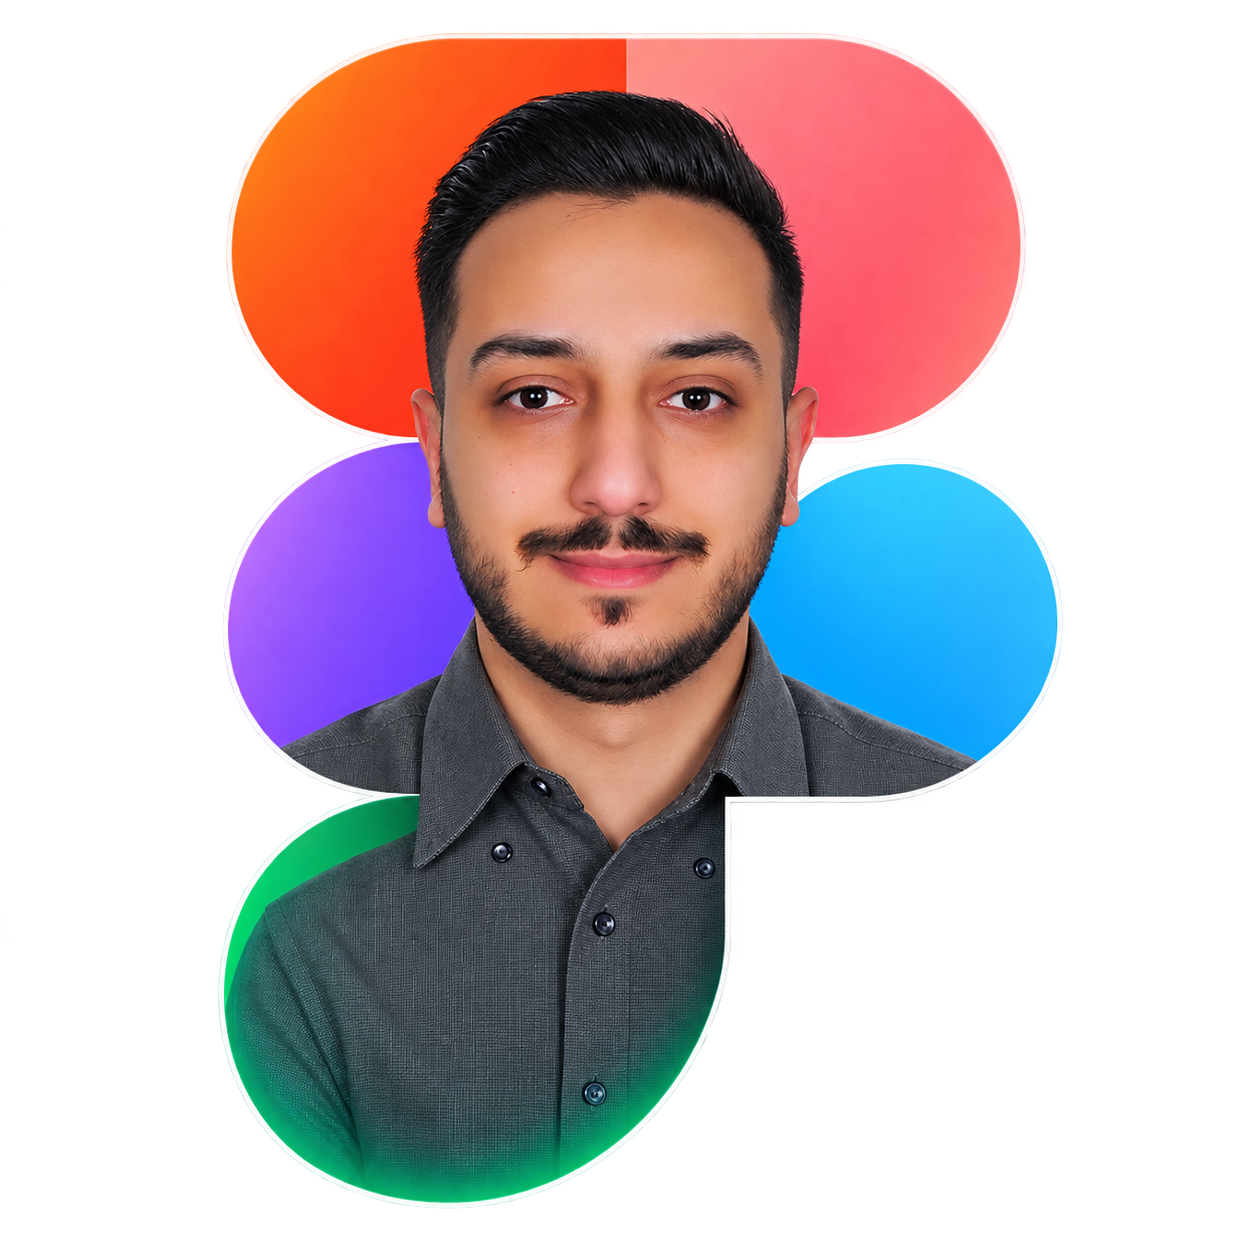
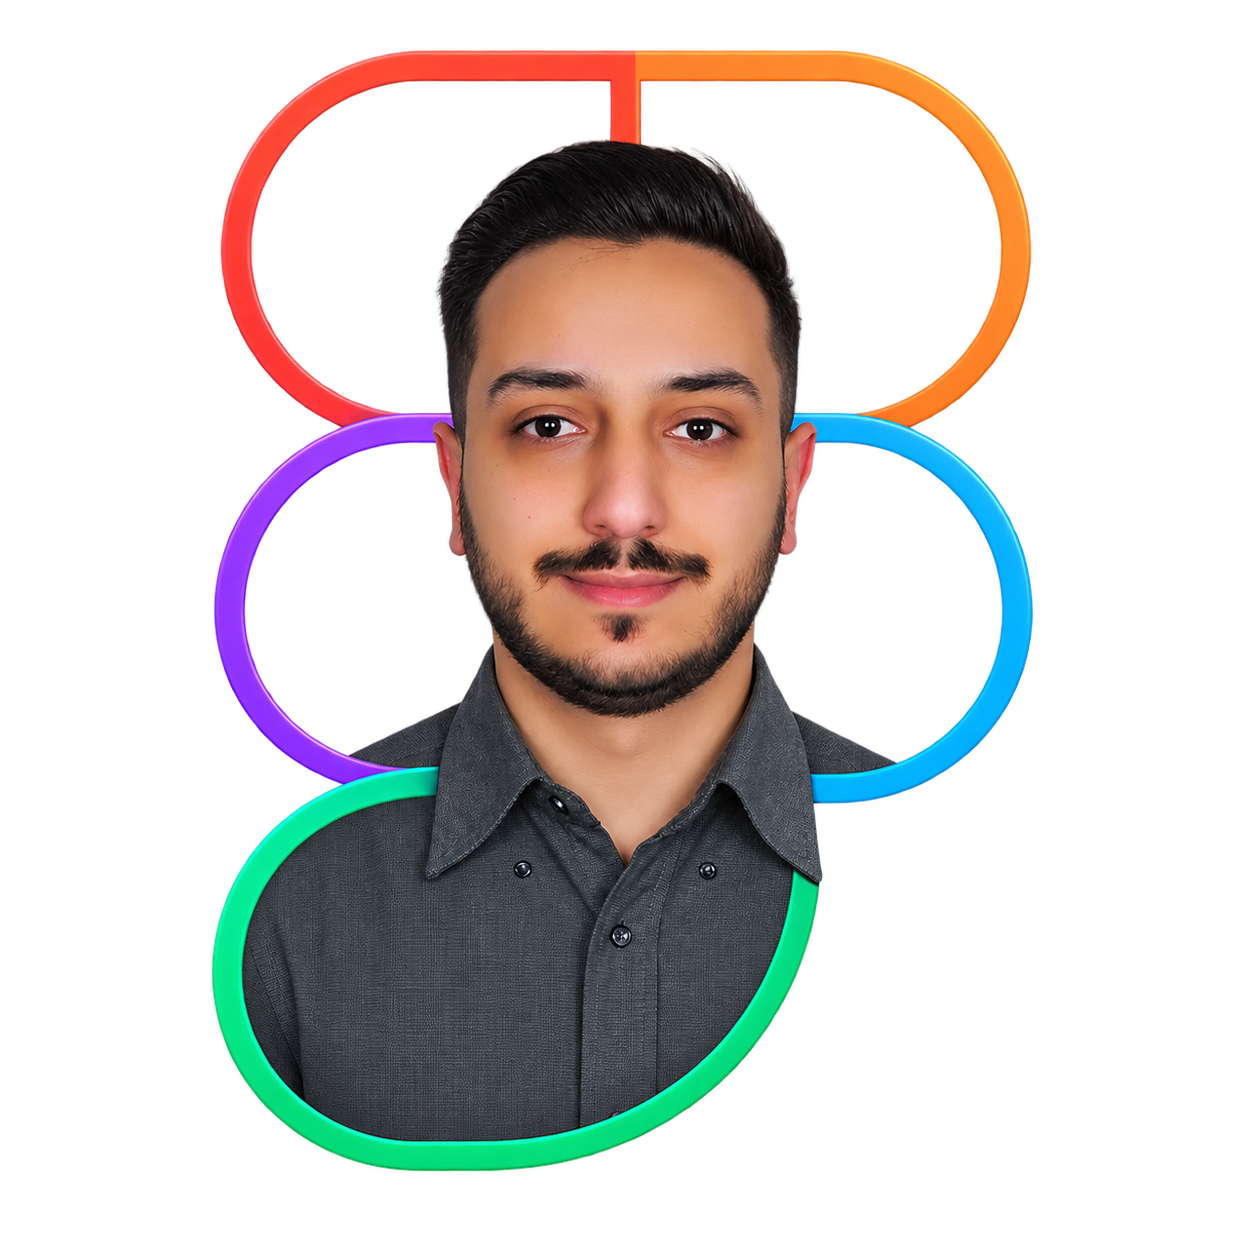
Refactor Band, Footer, and Hero components; update styles and improve layout

diff --git a/src/index.css b/src/index.css
@@ -14,13 +14,13 @@
 
 @layer base {
   :root {
-    --ground: 18 20 28;
-    --band: 22 25 34;
-    --ink: 238 240 246;
-    --muted: 154 163 184;
-    --faint: 107 116 136;
-    --rule: 42 47 61;
-    --accent: 88 166 255;
+    --ground: 3 7 18;
+    --band: 6 12 27;
+    --ink: 242 245 250;
+    --muted: 157 169 193;
+    --faint: 104 119 148;
+    --rule: 25 36 58;
+    --accent: 61 163 255;
 
     color-scheme: dark;
   }
@@ -32,6 +32,11 @@
 
   body {
     @apply bg-ground font-body text-ink antialiased;
+    background-color: rgb(var(--ground));
+    background-image:
+      radial-gradient(ellipse 55% 38% at 0% 0%, rgb(9 63 126 / 0.3), transparent 72%),
+      radial-gradient(ellipse 48% 34% at 100% 72%, rgb(6 43 91 / 0.28), transparent 74%);
+    background-attachment: fixed;
   }
 
   ::selection {
@@ -147,45 +152,48 @@
   .hero-visual {
     position: relative;
     display: grid;
-    gap: 1.25rem;
+    align-content: center;
+    gap: 1rem;
+    min-width: 0;
+  }
+
+  .hero-copy {
+    position: relative;
+    z-index: 1;
+  }
+
+  .hero-name {
+    color: rgb(var(--accent));
+    font-size: clamp(0.7rem, 1.2vw, 0.9rem);
+    letter-spacing: 0.2em;
+  }
+
+  .hero-title {
+    max-width: 12ch;
+    font-size: clamp(2.4rem, 4.6vw, 4.2rem);
+    letter-spacing: -0.045em;
+  }
+
+  .hero-title-location {
+    max-width: 13ch;
+  }
+
+  .hero-portrait-stage {
+    position: relative;
+    min-height: 18rem;
+    isolation: isolate;
   }
 
   .hero-portrait {
     position: relative;
-    min-height: 17rem;
-    overflow: hidden;
-    border: 1px solid rgb(255 255 255 / 0.12);
-    border-radius: 18px;
-    isolation: isolate;
-    background:
-      radial-gradient(circle at 18% 18%, rgb(255 104 63 / 0.3), transparent 31%),
-      radial-gradient(circle at 84% 48%, rgb(34 169 255 / 0.25), transparent 34%),
-      radial-gradient(circle at 48% 100%, rgb(25 194 129 / 0.2), transparent 38%),
-      linear-gradient(145deg, rgb(255 255 255 / 0.09), rgb(16 20 30 / 0.92));
-    box-shadow: 0 24px 60px -34px rgb(0 0 0 / 0.95);
-  }
-
-  .hero-portrait::before {
-    content: '';
-    position: absolute;
-    inset: 0;
-    z-index: -1;
-    opacity: 0.28;
-    background-image:
-      linear-gradient(rgb(255 255 255 / 0.12) 1px, transparent 1px),
-      linear-gradient(90deg, rgb(255 255 255 / 0.12) 1px, transparent 1px);
-    background-size: 2.2rem 2.2rem;
-    mask-image: linear-gradient(to bottom, black, transparent 82%);
-  }
-
-  .hero-portrait::after {
-    content: '';
-    position: absolute;
-    inset: -35%;
-    z-index: -1;
-    background: linear-gradient(115deg, transparent 35%, rgb(255 255 255 / 0.12), transparent 65%);
-    transform: translateX(-35%) rotate(8deg);
-    animation: portrait-light 12s ease-in-out infinite;
+    z-index: 1;
+    height: 100%;
+    min-height: 18rem;
+    overflow: visible;
+    border: 0;
+    border-radius: 0;
+    background: transparent;
+    box-shadow: none;
   }
 
   .hero-portrait img {
@@ -194,31 +202,91 @@
     z-index: 1;
     width: 100%;
     height: 100%;
-    max-height: 25rem;
+    max-height: 23rem;
     object-fit: contain;
     object-position: center bottom;
     filter: drop-shadow(0 1.5rem 1.5rem rgb(0 0 0 / 0.28));
   }
 
-  .hero-portrait-label {
+  .hero-ring {
     position: absolute;
-    z-index: 2;
-    right: 1rem;
-    bottom: 1rem;
-    padding: 0.45rem 0.65rem;
-    color: rgb(var(--ink));
-    background: rgb(var(--ground) / 0.72);
-    border: 1px solid rgb(255 255 255 / 0.14);
+    z-index: -1;
+    width: 11rem;
+    height: 5.5rem;
+    border: 3px solid transparent;
     border-radius: 999px;
-    font-family: theme('fontFamily.mono');
-    font-size: 0.55rem;
-    letter-spacing: 0.08em;
-    text-transform: uppercase;
+    transform: rotate(-8deg);
   }
 
-  @keyframes portrait-light {
-    0%, 100% { transform: translateX(-35%) rotate(8deg); }
-    50% { transform: translateX(35%) rotate(8deg); }
+  .hero-ring-one {
+    top: 1rem;
+    left: 50%;
+    border-top-color: #ff7627;
+    border-right-color: #ff4c62;
+    transform: translateX(-50%) rotate(-8deg);
+  }
+
+  .hero-ring-two {
+    top: 5.7rem;
+    left: 50%;
+    border-top-color: #db4dff;
+    border-right-color: #39a7ff;
+    transform: translateX(-50%) rotate(-8deg);
+  }
+
+  .hero-ring-three {
+    top: 10.4rem;
+    left: 50%;
+    width: 8rem;
+    border-top-color: #00f09a;
+    border-right-color: #00e5b1;
+    transform: translateX(-50%) rotate(-8deg);
+  }
+
+  .hero-signature {
+    justify-self: center;
+    padding: 0.65rem 1.1rem;
+    color: rgb(var(--muted));
+    border: 1px solid rgb(255 255 255 / 0.1);
+    border-radius: 999px;
+    letter-spacing: 0.08em;
+  }
+
+  .hero-stats {
+    display: grid;
+    grid-template-columns: repeat(4, 1fr);
+    gap: 0;
+    padding: 1rem 0.65rem;
+    border-radius: 10px;
+    background: rgb(10 15 27 / 0.48);
+  }
+
+  .hero-stat {
+    display: flex;
+    min-width: 0;
+    flex-direction: column;
+    gap: 0.35rem;
+    padding: 0 0.75rem;
+    border-right: 1px solid rgb(255 255 255 / 0.1);
+  }
+
+  .hero-stat:last-child {
+    border-right: 0;
+  }
+
+  .hero-stat strong {
+    color: rgb(var(--accent));
+    font-family: theme('fontFamily.display');
+    font-size: clamp(1.45rem, 2.5vw, 2.2rem);
+    line-height: 1;
+  }
+
+  .hero-stat span {
+    color: rgb(var(--muted));
+    font-family: theme('fontFamily.mono');
+    font-size: 0.52rem;
+    line-height: 1.5;
+    text-transform: uppercase;
   }
 
   .design-toolbar,
@@ -681,6 +749,42 @@
   }
 
   @media (max-width: 640px) {
+    .hero-portrait-stage {
+      min-height: 19rem;
+    }
+
+    .hero-portrait {
+      min-height: 19rem;
+    }
+
+    .hero-ring {
+      width: 10rem;
+      height: 5rem;
+    }
+
+    .hero-ring-two {
+      top: 5.8rem;
+    }
+
+    .hero-ring-three {
+      top: 10.6rem;
+      width: 6.8rem;
+    }
+
+    .hero-stats {
+      grid-template-columns: repeat(2, 1fr);
+      row-gap: 1rem;
+    }
+
+    .hero-stat:nth-child(2) {
+      border-right: 0;
+    }
+
+    .hero-stat:nth-child(-n + 2) {
+      padding-bottom: 0.85rem;
+      border-bottom: 1px solid rgb(255 255 255 / 0.1);
+    }
+
     .design-workspace {
       min-height: 27rem;
     }

diff --git a/src/components/Hero.tsx b/src/components/Hero.tsx
@@ -1,31 +1,13 @@
-import { disciplines, profile } from '../data/portfolio'
+import { disciplines, profile, stats } from '../data/portfolio'
 
 export default function Hero() {
   return (
     <section
       id="top"
-      className="relative flex min-h-[100svh] flex-col justify-center overflow-hidden border-b border-rule"
+      className="relative flex min-h-[100svh] flex-col justify-center overflow-hidden"
     >
-      {/* Ambient light for the glass to pick up — one hue, two intensities. */}
-      <div aria-hidden="true" className="pointer-events-none absolute inset-0">
-        <span
-          className="orb h-[560px] w-[560px] opacity-[0.34]"
-          style={{ background: 'rgb(var(--accent))', top: '-220px', left: '-160px' }}
-        />
-        <span
-          className="orb h-[440px] w-[440px] opacity-[0.16]"
-          style={{
-            background: 'rgb(var(--accent))',
-            bottom: '-180px',
-            right: '-120px',
-            animationDelay: '-9s',
-            animationDuration: '28s',
-          }}
-        />
-      </div>
-
-      <div className="relative mx-auto grid w-full max-w-shell gap-14 px-6 pb-20 pt-32 sm:px-10 lg:grid-cols-[1.15fr_1fr] lg:items-center lg:gap-20 lg:pb-24 lg:pt-36">
-        <div className="flex flex-col items-start gap-7">
+      <div className="relative mx-auto grid w-full max-w-shell gap-10 px-6 pb-14 pt-24 sm:px-10 lg:grid-cols-[1.15fr_1fr] lg:items-center lg:gap-14 lg:pb-16 lg:pt-24">
+        <div className="hero-copy flex flex-col items-start gap-5">
           <span className="enter chip flex items-center gap-2">
             <span
               aria-hidden="true"
@@ -35,12 +17,14 @@ export default function Hero() {
             Available for work
           </span>
 
-          <h1 className="enter font-display text-[clamp(1.875rem,4vw,3rem)] font-semibold leading-[1.15] text-ink [animation-delay:100ms]">
+          <span className="enter hero-name label [animation-delay:60ms]">{profile.name}</span>
+
+          <h1 className="enter hero-title font-display font-semibold leading-[1.08] text-ink [animation-delay:100ms]">
             {profile.role}
-            <span className="mt-2 block text-muted">based in {profile.location}</span>
+            <span className="hero-title-location mt-2 block text-muted">based in {profile.location}</span>
           </h1>
 
-          <p className="enter prose-measure text-[1rem] [animation-delay:200ms]">
+          <p className="enter prose-measure text-[0.875rem] [animation-delay:200ms]">
             {profile.tagline}. {profile.longBio}
           </p>
 
@@ -66,11 +50,23 @@ export default function Hero() {
         </div>
 
         <div className="enter hero-visual [animation-delay:180ms]">
-          <div className="hero-portrait" aria-label="Portrait of Hassan">
-            <img src="/hassan-/Photo.png" alt="Portrait of Hassan" />
-            <span className="hero-portrait-label">Creative director / 2025</span>
+          <div className="hero-portrait-stage">
+            <span className="hero-ring hero-ring-one" aria-hidden="true" />
+            <span className="hero-ring hero-ring-two" aria-hidden="true" />
+            <span className="hero-ring hero-ring-three" aria-hidden="true" />
+            <div className="hero-portrait" aria-label="Portrait of Hassan">
+              <img src="/hassan-/Photo.png" alt="Portrait of Hassan" />
+            </div>
           </div>
-
+          <div className="hero-signature label">Mohamad — UI/UX &amp; art direction</div>
+          <div className="hero-stats panel">
+            {stats.map((stat) => (
+              <div key={stat.label} className="hero-stat">
+                <strong>{stat.value}</strong>
+                <span>{stat.label}</span>
+              </div>
+            ))}
+          </div>
         </div>
       </div>
 

diff --git a/src/components/Band.tsx b/src/components/Band.tsx
@@ -6,7 +6,7 @@ type Props = {
   label: string
   title: string
   intro?: string
-  /** Alternate ground, so consecutive bands separate without a hard rule. */
+  /** Kept for content compatibility; sections share one continuous ground. */
   alt?: boolean
   children: ReactNode
 }
@@ -15,23 +15,12 @@ type Props = {
  * A section chapter. Lays two blurred orbs behind the content so the glass
  * panes on top have real colour to pick up, and opens with a quiet header.
  */
-export default function Band({ id, label, title, intro, alt, children }: Props) {
+export default function Band({ id, label, title, intro, children }: Props) {
   return (
     <section
       id={id}
-      className={`relative scroll-mt-20 overflow-hidden ${alt ? 'bg-band' : 'bg-ground'}`}
+      className="relative scroll-mt-20 overflow-hidden"
     >
-      <div aria-hidden="true" className="pointer-events-none absolute inset-0">
-        <span
-          className="orb h-[420px] w-[420px] opacity-[0.26]"
-          style={{ background: 'rgb(var(--accent))', top: '-150px', left: '-120px' }}
-        />
-        <span
-          className="orb h-[340px] w-[340px] opacity-[0.13]"
-          style={{ background: 'rgb(var(--accent))', bottom: '-150px', right: '-90px' }}
-        />
-      </div>
-
       <div className="relative mx-auto max-w-shell px-6 py-20 sm:px-10 lg:py-28">
         <Reveal>
           <header className="mb-12 flex max-w-3xl flex-col gap-4 lg:mb-16">

diff --git a/src/components/Footer.tsx b/src/components/Footer.tsx
@@ -2,7 +2,7 @@ import { profile } from '../data/portfolio'
 
 export default function Footer() {
   return (
-    <footer className="border-t border-rule bg-ground">
+    <footer className="bg-ground">
       <div className="mx-auto flex max-w-shell flex-col gap-4 px-6 py-8 sm:flex-row sm:items-center sm:justify-between sm:px-10">
         <p className="label">
           © {new Date().getFullYear()} {profile.name}
